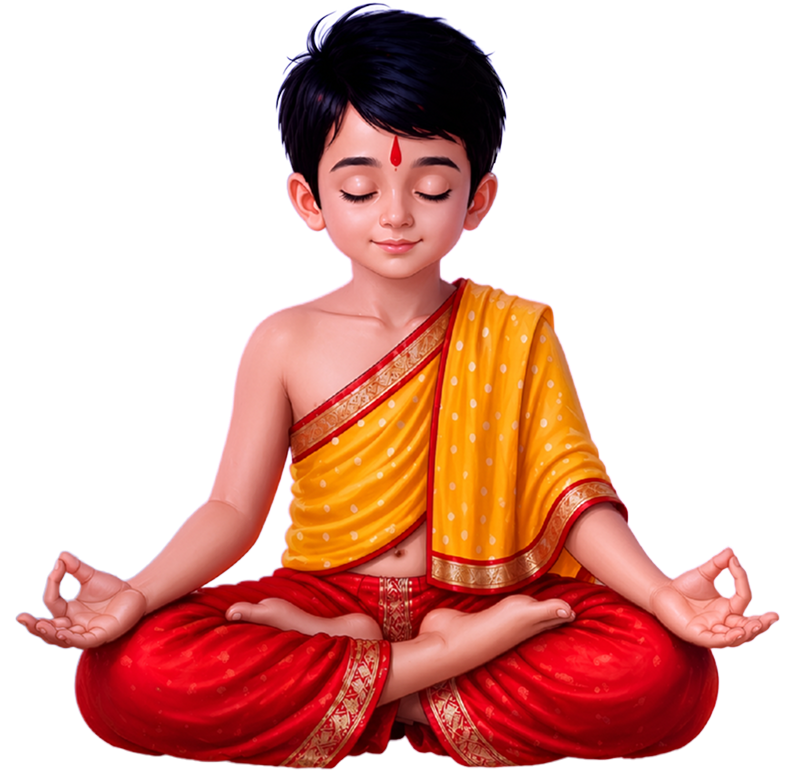
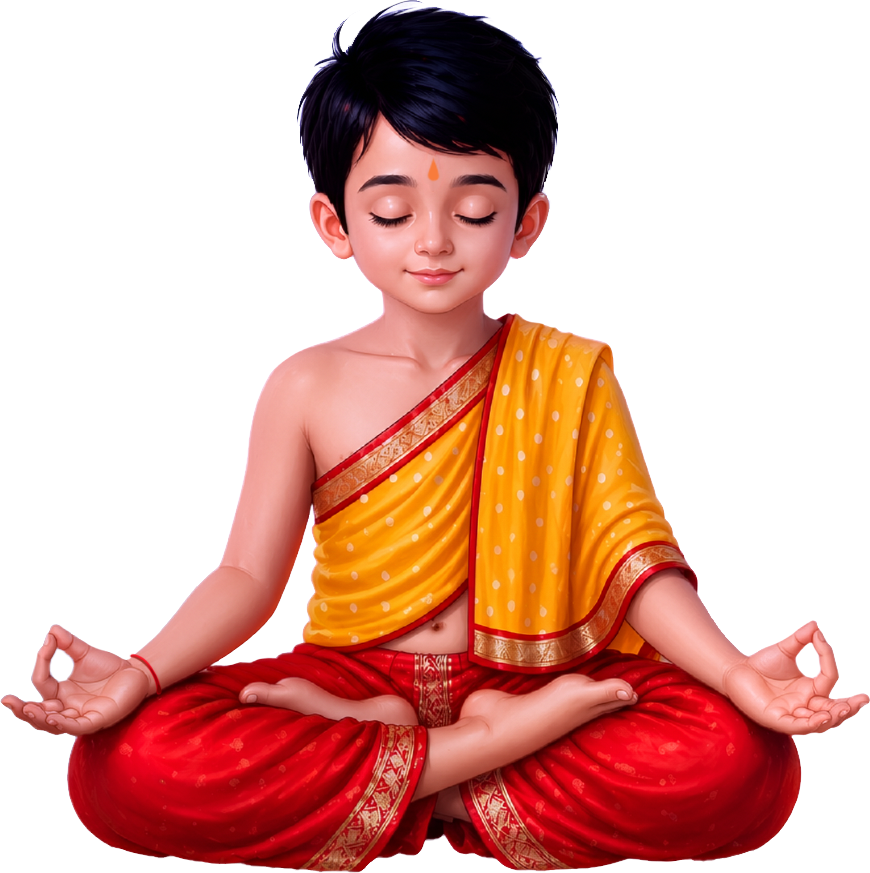
Replace mascot  and update index.html

diff --git a/assets/css/style.css b/assets/css/style.css
@@ -327,7 +327,7 @@ body[data-lang="gu"] .page-title span {
     top: 54%;
     left: 50%;
     transform: translate(-50%,-50%);
-    width: 35vw!important;
+    width: 34vw!important;
   }
 
   .circle div[data-lang-key="title"] {
